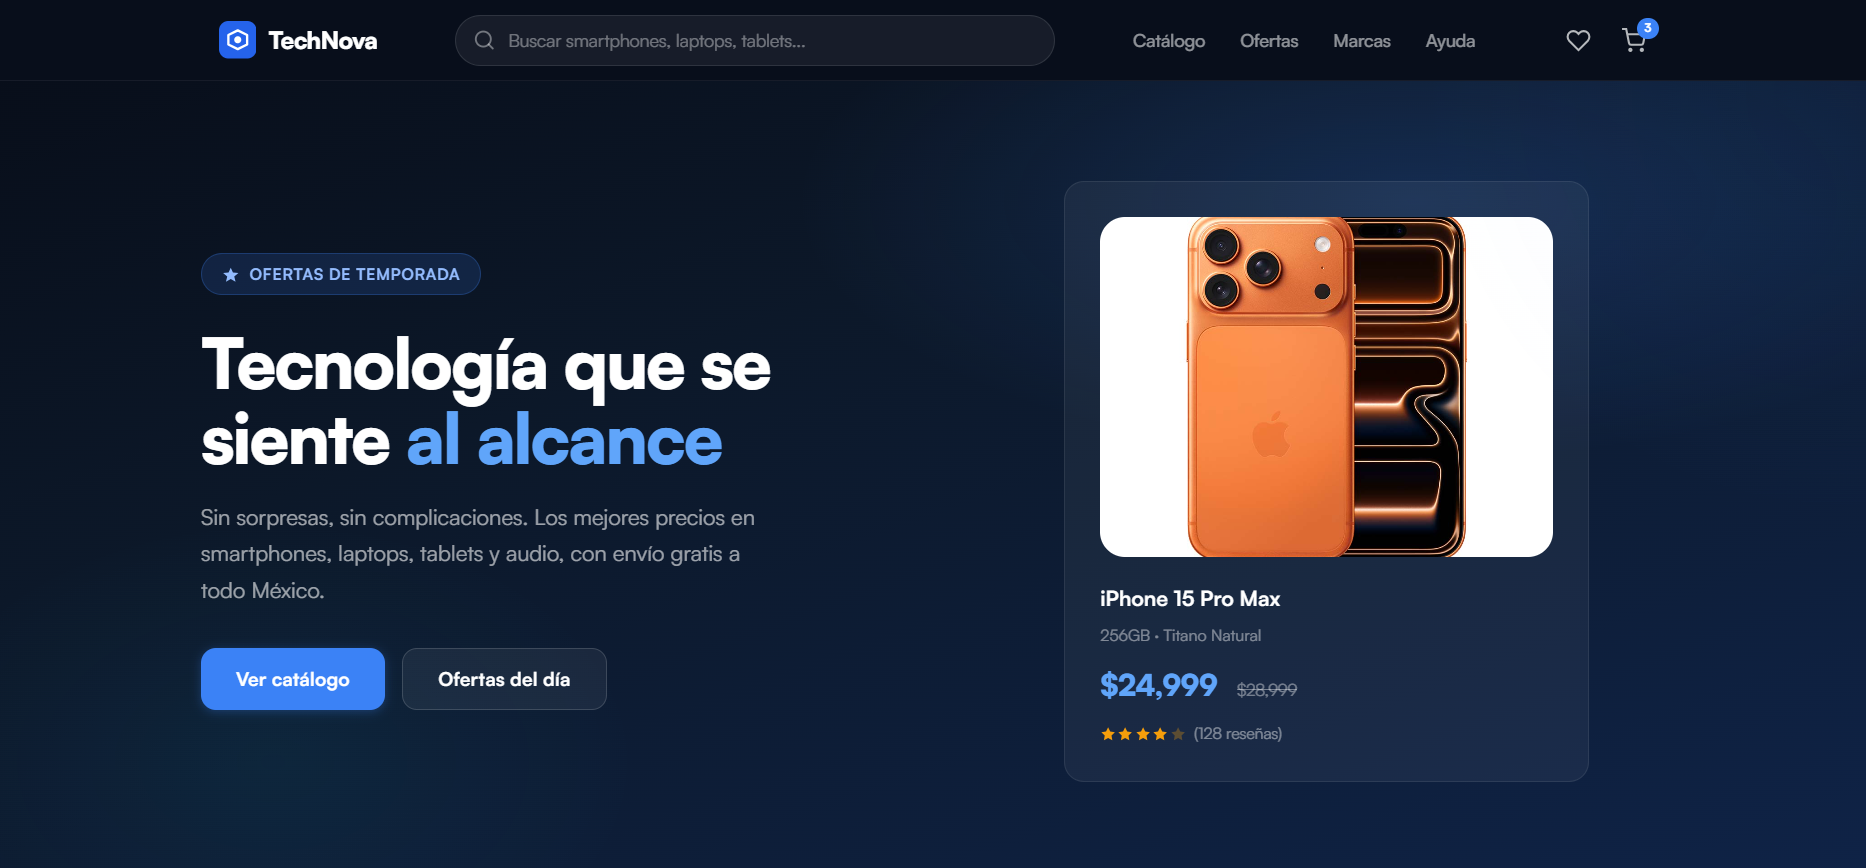
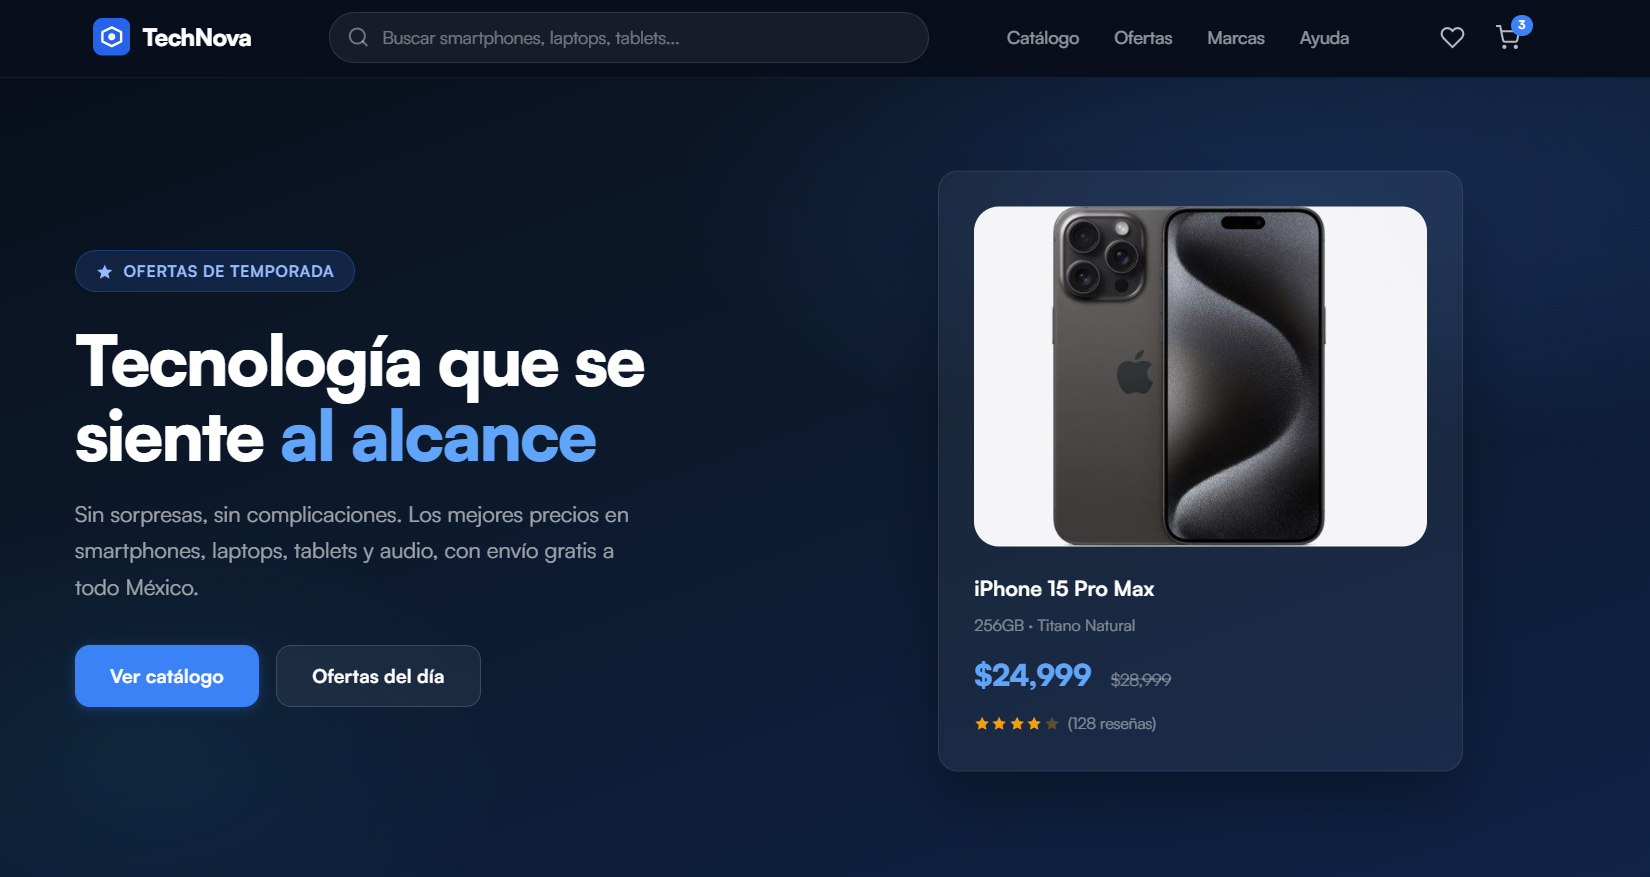
mejoras en los servicios header

diff --git a/proyectos.html b/proyectos.html
@@ -349,7 +349,7 @@
   }
 
   /* ─── Portfolio ─── */
-  #proyectos { background: var(--bg); }
+  #portafolio { background: var(--bg); padding-top: calc(68px + var(--section-y-tablet)); }
 
   .portfolio-grid {
     display: grid; grid-template-columns: 1fr 1fr;
@@ -425,17 +425,10 @@
     overflow: hidden;
     position: relative;
   }
-  .project-card:hover .project-image {
-    background: color-mix(in oklab, var(--bg), var(--border) 20%);
-  }
   .project-image img {
     width: 100%; height: 100%;
     object-fit: cover;
     position: absolute; inset: 0;
-    transition: transform var(--motion-slow) var(--ease-smooth);
-  }
-  .project-card:hover .project-image img {
-    transform: scale(1.06);
   }
 
   /* ─── Footer ─── */

diff --git a/servicios.html b/servicios.html
@@ -360,6 +360,9 @@
     transform: translateY(0);
   }
 
+  /* ─── First section nav offset ─── */
+  #servicios { padding-top: calc(68px + var(--section-y-tablet)); }
+
   /* ─── Service Pricing Cards ─── */
   .services-pricing {
     display: grid;

diff --git a/faq.html b/faq.html
@@ -349,7 +349,7 @@
   }
 
   /* ─── FAQ ─── */
-  #faq { background: var(--bg); }
+  #faq { background: var(--bg); padding-top: calc(68px + var(--section-y-tablet)); }
   .faq-list { max-width: 800px; margin: var(--space-8) auto 0; }
   .faq-item { border-bottom: 1px solid var(--border-soft); padding: var(--space-5) 0; }
   .faq-question {

diff --git a/sobre-mi.html b/sobre-mi.html
@@ -349,7 +349,7 @@
   }
 
   /* ─── About ─── */
-  #sobre-mi { position: relative; }
+  #sobre-mi { position: relative; padding-top: calc(68px + var(--section-y-tablet)); }
   .about-grid {
     display: grid; grid-template-columns: 1fr 1fr;
     column-gap: var(--space-12); row-gap: var(--space-3);